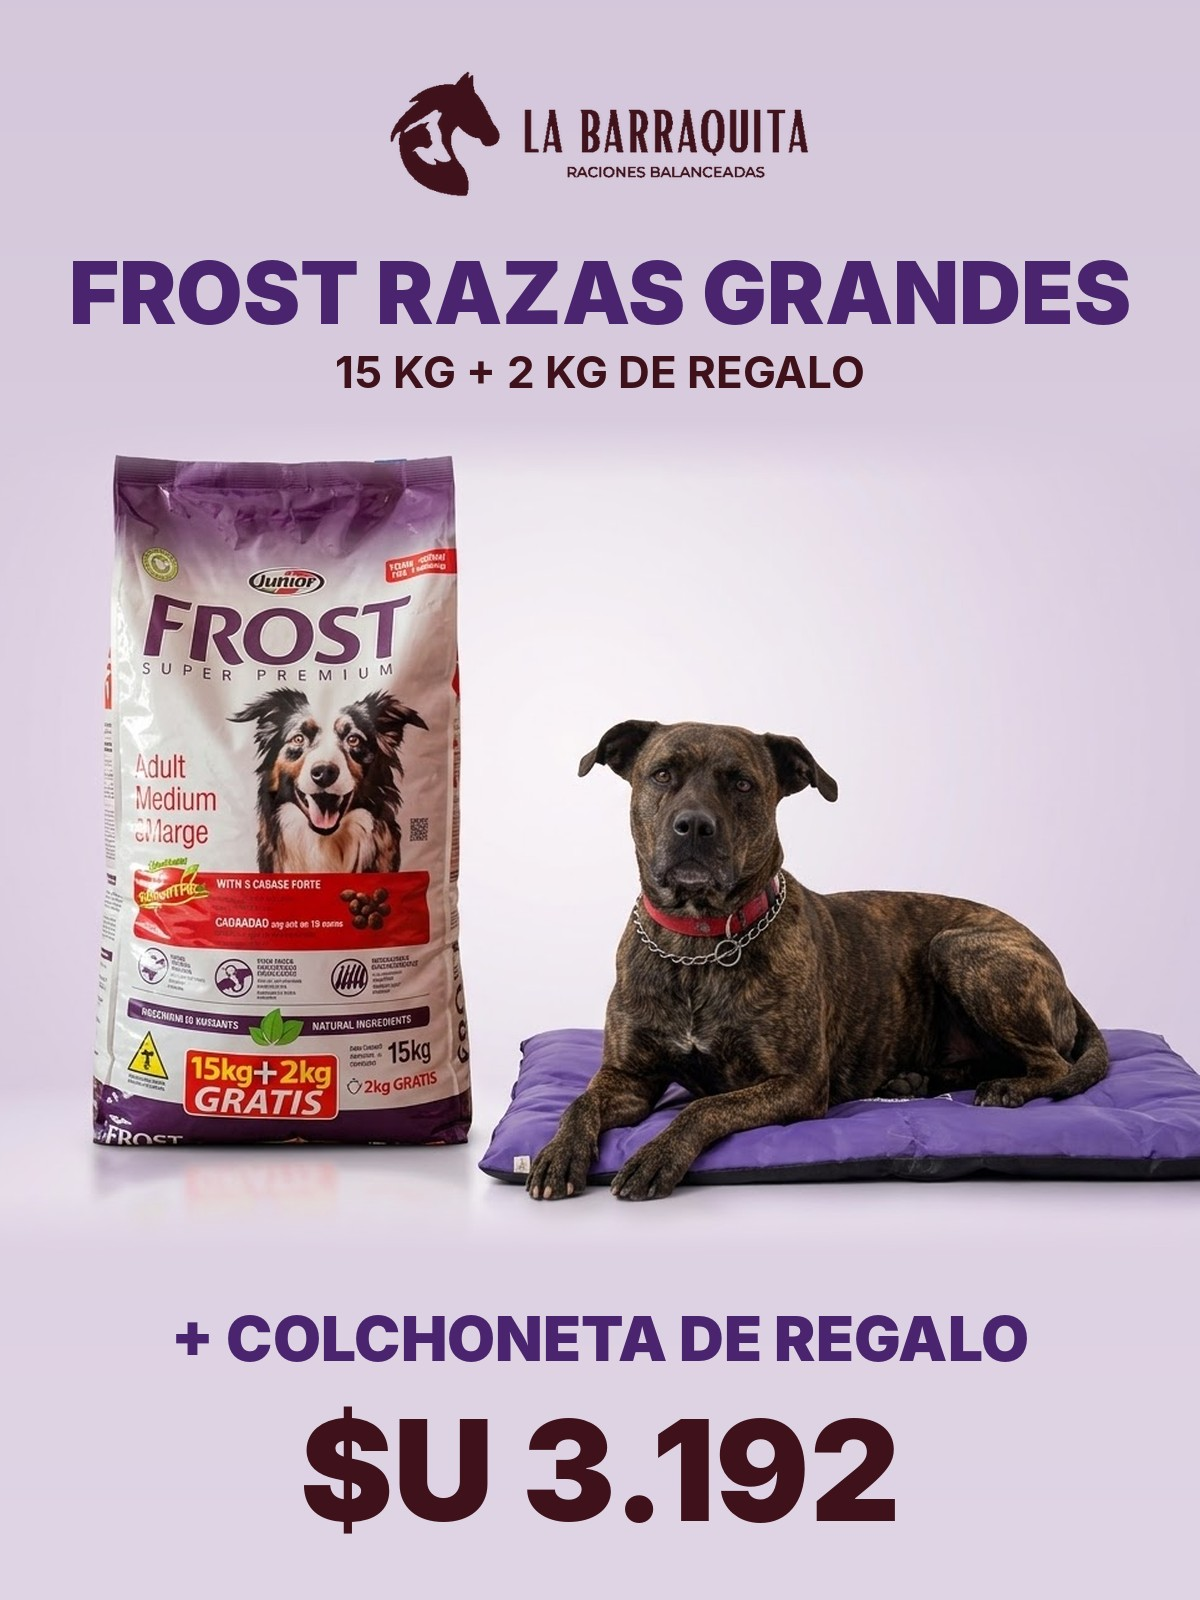
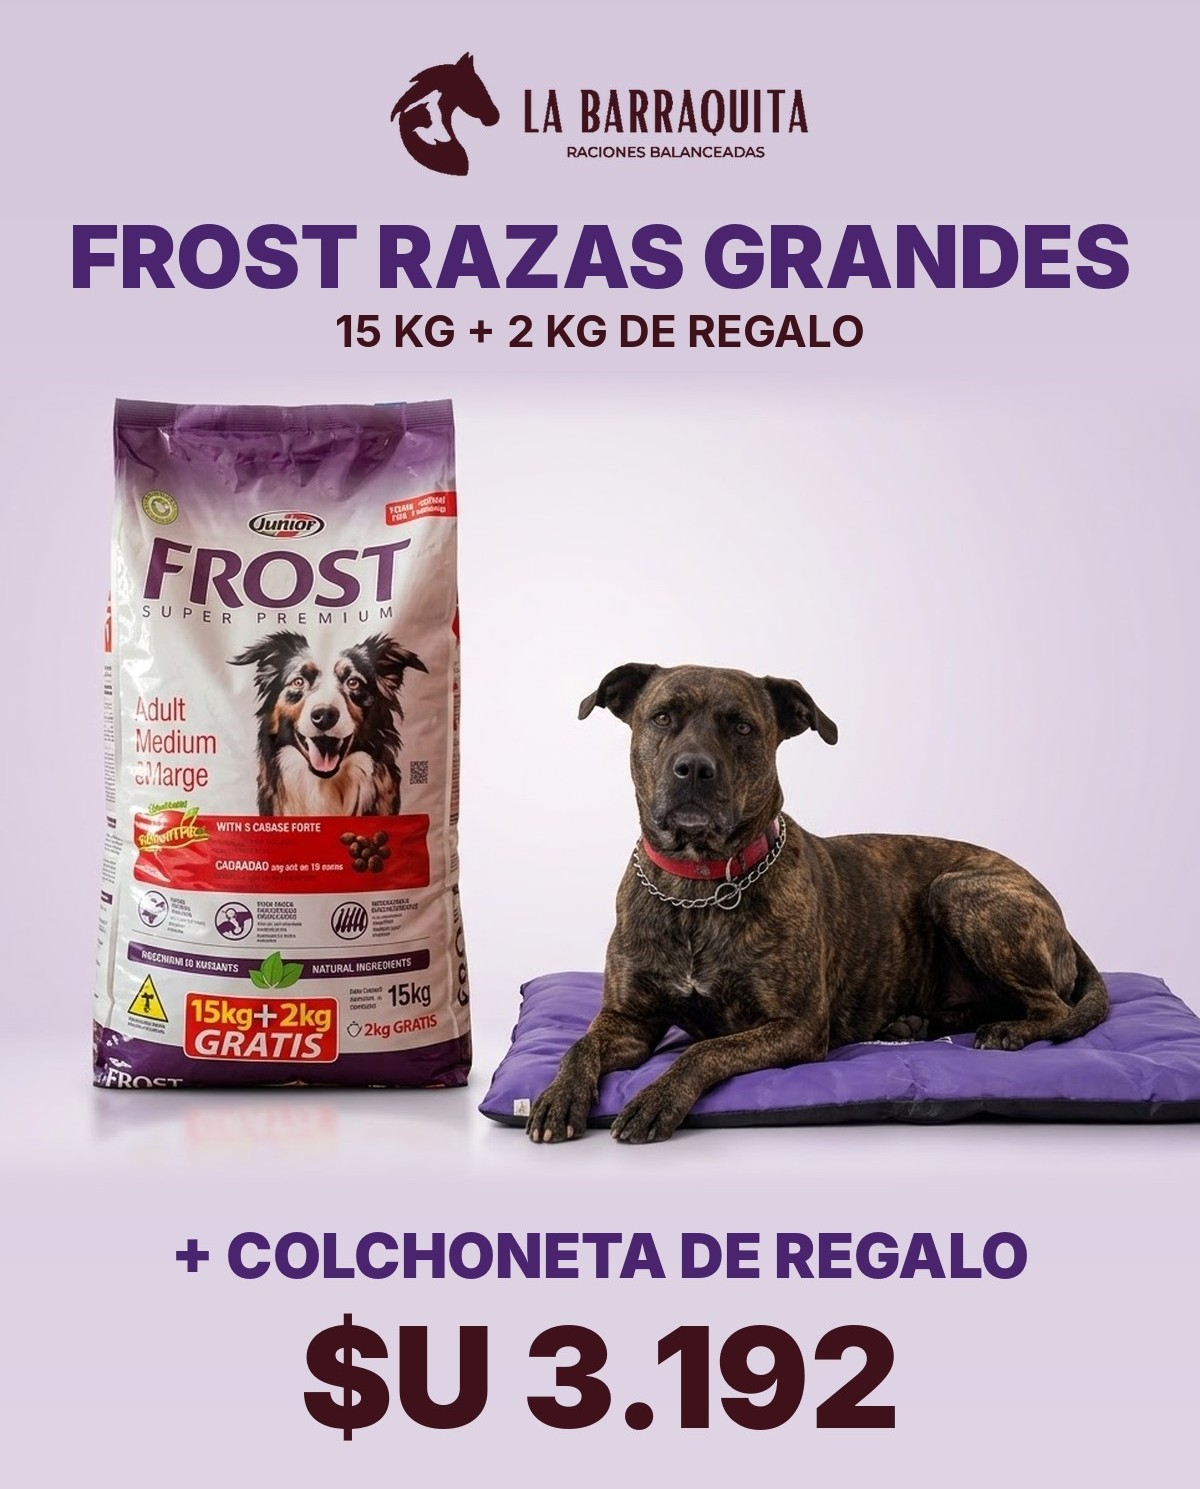
Ofertas del mes: Golden Formula, Premier Formula y Golden Selección Natural
- Tres placas nuevas en el carrusel (Golden Formula razas pequeñas 10,1 kg + 3 kg,
  Premier Formula 20 kg + set parrillero, Golden Selección Natural cachorros 10,1 kg).
- El recuadro del carrusel pasa a 825:1024, la proporción de las placas.
- Foto de la oferta Frost actualizada.

diff --git a/js/app.js b/js/app.js
@@ -4,12 +4,29 @@
   var WA = "59892109806";
   /* ── Ofertas del mes ──
      Cada oferta es un slide del carrusel y se toca para pedirla por WhatsApp.
-     Para cambiar las promos del mes: reemplazar las imágenes (3:4, 1200 × 1600) y el texto de "msg". */
+     Para cambiar las promos del mes: reemplazar las imágenes y el texto de "msg".
+     Todas las placas van en la misma proporción que el recuadro del carrusel (825 × 1024,
+     ver .slide-in en styles.css): si llegan en otra, cambiar ahí el aspect-ratio o quedan con franjas. */
   var OFERTAS = [
     {
       img: "img/ofertas/frost-razas-grandes-colchoneta.jpg",
       alt: "Frost Razas Grandes 15 kg + 2 kg de regalo + colchoneta de regalo a $ 3192",
       msg: "Frost Razas Grandes — 15 kg + 2 kg de regalo + colchoneta de regalo por $ 3192"
+    },
+    {
+      img: "img/ofertas/golden-formula-razas-pequenas-3kg.jpg",
+      alt: "Oferta Golden Formula perros adultos razas pequeñas: 10,1 kg + 3 kg de regalo",
+      msg: "Golden Formula Razas Pequeñas — 10,1 kg + 3 kg de regalo"
+    },
+    {
+      img: "img/ofertas/premier-formula-20kg-set-parrillero.jpg",
+      alt: "Oferta Premier Formula perros adultos razas medianas 20 kg + set parrillero de regalo",
+      msg: "Premier Formula Razas Medianas — 20 kg + set parrillero de regalo"
+    },
+    {
+      img: "img/ofertas/golden-seleccion-natural-cachorros.jpg",
+      alt: "Golden Selección Natural para cachorros, pollo y arroz, 10,1 kg",
+      msg: "Golden Selección Natural Cachorros pollo y arroz — 10,1 kg"
     },
     {
       img: "img/ofertas/rex-7kg-5-bolsas.jpg",
@@ -694,7 +711,7 @@
       s.dataset.ofertaImg = o.img.split("/").pop();
       s.dataset.ofertaPos = String(i + 1);
       var inner = document.createElement("div"); inner.className = "slide-in";
-      // Fondo difuminado con la misma foto para rellenar las bandas (imágenes que no son 3:4).
+      // Fondo difuminado con la misma foto para rellenar las bandas (placas de otra proporción que el recuadro).
       // URL absoluta: el var() se consume en el CSS (carpeta css/), una ruta relativa se resolvería mal.
       var bgUrl = new URL(o.img, document.baseURI).href;
       inner.style.setProperty("--bg", 'url("' + bgUrl.replace(/"/g, "%22") + '")');

diff --git a/css/styles.css b/css/styles.css
@@ -176,13 +176,13 @@ a.slide{display:block;cursor:pointer;-webkit-tap-highlight-color:transparent}
 }
 a.slide:focus-visible{outline:none}
 a.slide:focus-visible .slide-in{outline:3px solid var(--wa);outline-offset:-3px}
-/* El alto sale del propio recuadro: 3:4 exacto, igual que las fotos de oferta.
-   Así encastran sin bandas. Las que no son 3:4 se rellenan con el fondo difuminado. */
+/* El alto sale del propio recuadro: 825:1024 exacto, igual que las placas de oferta.
+   Así encastran sin bandas. Las que vengan en otra proporción se rellenan con el fondo difuminado. */
 .slide-in{
-  position:relative;width:100%;aspect-ratio:3/4;overflow:hidden;border-radius:16px;
+  position:relative;width:100%;aspect-ratio:825/1024;overflow:hidden;border-radius:16px;
   background:var(--surface);box-shadow:0 12px 30px -20px rgba(92,27,38,.5);
 }
-/* Relleno difuminado con la misma foto (evita bandas vacías en fotos que no son 3:4) */
+/* Relleno difuminado con la misma foto (evita bandas vacías en placas de otra proporción) */
 .slide-in::before{content:"";position:absolute;inset:0;background:var(--bg) center/cover no-repeat;filter:blur(22px) brightness(.92);transform:scale(1.18);z-index:0}
 .slide-in img{position:relative;z-index:1;width:100%;height:100%;object-fit:contain;display:block;transition:transform .35s ease}
 .dots{display:flex;gap:9px;justify-content:center;margin-top:16px}
@@ -532,7 +532,7 @@ footer{margin-top:72px;background:var(--ink);color:#BFB3A6;border-top:3px solid 
 }
 
 @media (max-width:860px){
-  /* el alto lo define .slide-in (3:4) */
+  /* el alto lo define .slide-in (825:1024) */
   .slide{flex-basis:50%;padding:0 7px}
   .hdr-search{order:3;flex-basis:100%;max-width:none}
   .top-row{flex-wrap:wrap;gap:12px}
@@ -578,7 +578,7 @@ footer{margin-top:72px;background:var(--ink);color:#BFB3A6;border-top:3px solid 
   .hero{padding:22px 0 16px}
   .hero-title h2{font-size:1.35rem}
   .hero-title span{display:none}
-  /* el alto lo define .slide-in (3:4) */
+  /* el alto lo define .slide-in (825:1024) */
   .slide{flex-basis:100%;padding:0 5px}
   .car-nav{width:38px;height:38px}
   .car-hint{font-size:.76rem;gap:7px;padding:8px 14px;margin-top:14px}
